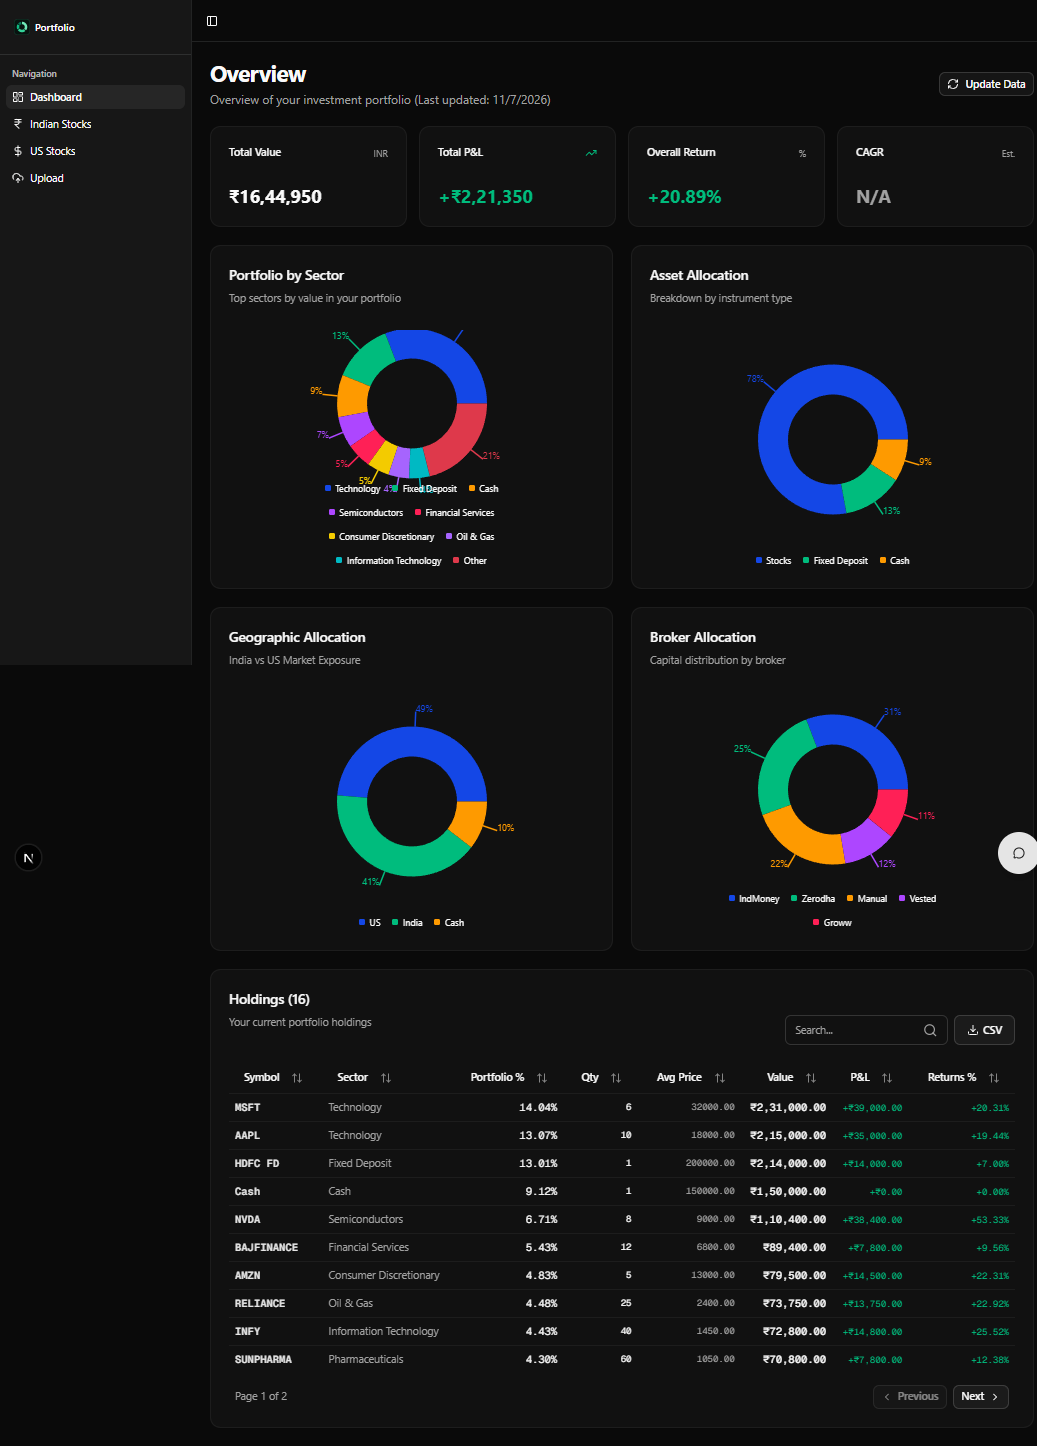
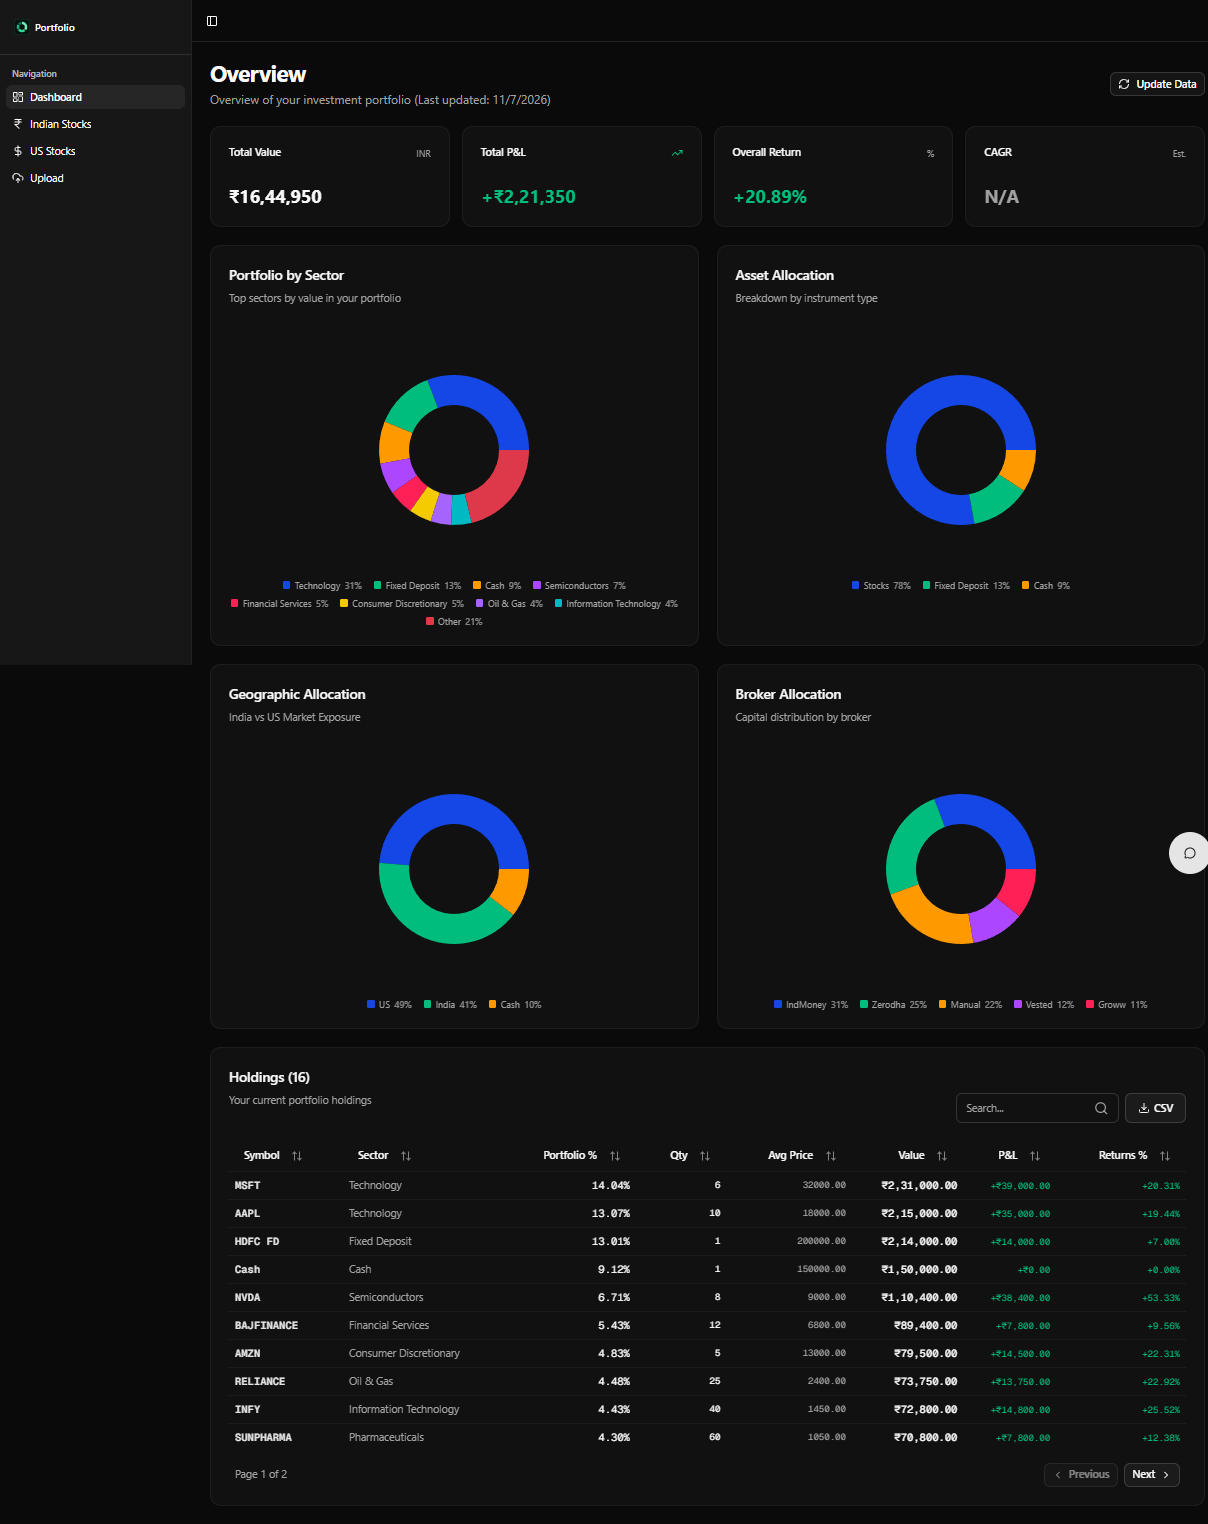
Fix chart label and legend overlap

diff --git a/src/components/dashboard-view.tsx b/src/components/dashboard-view.tsx
@@ -17,8 +17,6 @@ import {
   ChartContainer,
   ChartTooltip,
   ChartTooltipContent,
-  ChartLegend,
-  ChartLegendContent,
   type ChartConfig,
 } from "@/components/ui/chart";
 import {
@@ -112,6 +110,29 @@ function buildChartData(map: Map<string, number>): {
   });
 
   return { data, config };
+}
+
+function ChartLegendItems({ data }: { data: ChartDatum[] }) {
+  const total = data.reduce((sum, item) => sum + item.value, 0);
+
+  return (
+    <div className="mt-3 flex flex-wrap justify-center gap-x-4 gap-y-2 text-xs">
+      {data.map((item) => (
+        <span key={item.name} className="inline-flex items-center gap-1.5">
+          <span
+            className="h-2.5 w-2.5 shrink-0 rounded-[2px]"
+            style={{ backgroundColor: item.fill }}
+          />
+          <span className="text-muted-foreground">{item.name}</span>
+          {total > 0 && (
+            <span className="text-foreground/50">
+              {((item.value / total) * 100).toFixed(0)}%
+            </span>
+          )}
+        </span>
+      ))}
+    </div>
+  );
 }
 
 export function DashboardView({
@@ -470,35 +491,34 @@ export function DashboardView({
           </CardHeader>
           <CardContent>
             {sectorData.length > 0 ? (
-              <ChartContainer
-                config={sectorConfig}
-                className="mx-auto aspect-square h-[320px]"
-              >
-                <PieChart>
-                  <ChartTooltip
-                    content={<ChartTooltipContent nameKey="name" />}
-                  />
-                  <Pie
-                    data={sectorData}
-                    dataKey="value"
-                    nameKey="name"
-                    cx="50%"
-                    cy="50%"
-                    innerRadius={60}
-                    outerRadius={100}
-                    strokeWidth={2}
-                    stroke="hsl(var(--background))"
-                    label={({ percent }) => `${(percent * 100).toFixed(0)}%`}
-                  >
-                    {sectorData.map((entry, index) => (
-                      <Cell key={`cell-${index}`} fill={entry.fill} />
-                    ))}
-                  </Pie>
-                  <ChartLegend
-                    content={<ChartLegendContent nameKey="name" />}
-                  />
-                </PieChart>
-              </ChartContainer>
+              <>
+                <ChartContainer
+                  config={sectorConfig}
+                  className="mx-auto aspect-square h-[320px]"
+                >
+                  <PieChart>
+                    <ChartTooltip
+                      content={<ChartTooltipContent nameKey="name" />}
+                    />
+                    <Pie
+                      data={sectorData}
+                      dataKey="value"
+                      nameKey="name"
+                      cx="50%"
+                      cy="50%"
+                      innerRadius={60}
+                      outerRadius={100}
+                      strokeWidth={2}
+                      stroke="hsl(var(--background))"
+                    >
+                      {sectorData.map((entry, index) => (
+                        <Cell key={`cell-${index}`} fill={entry.fill} />
+                      ))}
+                    </Pie>
+                  </PieChart>
+                </ChartContainer>
+                <ChartLegendItems data={sectorData} />
+              </>
             ) : (
               <div className="flex h-[280px] items-center justify-center text-muted-foreground">
                 No sector data
@@ -515,35 +535,34 @@ export function DashboardView({
           </CardHeader>
           <CardContent>
             {assetData.length > 0 ? (
-              <ChartContainer
-                config={assetConfig}
-                className="mx-auto aspect-square h-[320px]"
-              >
-                <PieChart>
-                  <ChartTooltip
-                    content={<ChartTooltipContent nameKey="name" />}
-                  />
-                  <Pie
-                    data={assetData}
-                    dataKey="value"
-                    nameKey="name"
-                    cx="50%"
-                    cy="50%"
-                    innerRadius={60}
-                    outerRadius={100}
-                    strokeWidth={2}
-                    stroke="hsl(var(--background))"
-                    label={({ percent }) => `${(percent * 100).toFixed(0)}%`}
-                  >
-                    {assetData.map((entry, index) => (
-                      <Cell key={`cell-${index}`} fill={entry.fill} />
-                    ))}
-                  </Pie>
-                  <ChartLegend
-                    content={<ChartLegendContent nameKey="name" />}
-                  />
-                </PieChart>
-              </ChartContainer>
+              <>
+                <ChartContainer
+                  config={assetConfig}
+                  className="mx-auto aspect-square h-[320px]"
+                >
+                  <PieChart>
+                    <ChartTooltip
+                      content={<ChartTooltipContent nameKey="name" />}
+                    />
+                    <Pie
+                      data={assetData}
+                      dataKey="value"
+                      nameKey="name"
+                      cx="50%"
+                      cy="50%"
+                      innerRadius={60}
+                      outerRadius={100}
+                      strokeWidth={2}
+                      stroke="hsl(var(--background))"
+                    >
+                      {assetData.map((entry, index) => (
+                        <Cell key={`cell-${index}`} fill={entry.fill} />
+                      ))}
+                    </Pie>
+                  </PieChart>
+                </ChartContainer>
+                <ChartLegendItems data={assetData} />
+              </>
             ) : (
               <div className="flex h-[280px] items-center justify-center text-muted-foreground">
                 No asset data
@@ -561,35 +580,34 @@ export function DashboardView({
             </CardHeader>
             <CardContent>
               {countryData.length > 0 ? (
-                <ChartContainer
-                  config={countryConfig}
-                  className="mx-auto aspect-square h-[320px]"
-                >
-                  <PieChart>
-                    <ChartTooltip
-                      content={<ChartTooltipContent nameKey="name" />}
-                    />
-                    <Pie
-                      data={countryData}
-                      dataKey="value"
-                      nameKey="name"
-                      cx="50%"
-                      cy="50%"
-                      innerRadius={60}
-                      outerRadius={100}
-                      strokeWidth={2}
-                      stroke="hsl(var(--background))"
-                      label={({ percent }) => `${(percent * 100).toFixed(0)}%`}
-                    >
-                      {countryData.map((entry, index) => (
-                        <Cell key={`cell-${index}`} fill={entry.fill} />
-                      ))}
-                    </Pie>
-                    <ChartLegend
-                      content={<ChartLegendContent nameKey="name" />}
-                    />
-                  </PieChart>
-                </ChartContainer>
+                <>
+                  <ChartContainer
+                    config={countryConfig}
+                    className="mx-auto aspect-square h-[320px]"
+                  >
+                    <PieChart>
+                      <ChartTooltip
+                        content={<ChartTooltipContent nameKey="name" />}
+                      />
+                      <Pie
+                        data={countryData}
+                        dataKey="value"
+                        nameKey="name"
+                        cx="50%"
+                        cy="50%"
+                        innerRadius={60}
+                        outerRadius={100}
+                        strokeWidth={2}
+                        stroke="hsl(var(--background))"
+                      >
+                        {countryData.map((entry, index) => (
+                          <Cell key={`cell-${index}`} fill={entry.fill} />
+                        ))}
+                      </Pie>
+                    </PieChart>
+                  </ChartContainer>
+                  <ChartLegendItems data={countryData} />
+                </>
               ) : (
                 <div className="flex h-[280px] items-center justify-center text-muted-foreground">
                   No data available
@@ -607,35 +625,34 @@ export function DashboardView({
           </CardHeader>
           <CardContent>
             {brokerData.length > 0 ? (
-              <ChartContainer
-                config={brokerConfig}
-                className="mx-auto aspect-square h-[320px]"
-              >
-                <PieChart>
-                  <ChartTooltip
-                    content={<ChartTooltipContent nameKey="name" />}
-                  />
-                  <Pie
-                    data={brokerData}
-                    dataKey="value"
-                    nameKey="name"
-                    cx="50%"
-                    cy="50%"
-                    innerRadius={60}
-                    outerRadius={100}
-                    strokeWidth={2}
-                    stroke="hsl(var(--background))"
-                    label={({ percent }) => `${(percent * 100).toFixed(0)}%`}
-                  >
-                    {brokerData.map((entry, index) => (
-                      <Cell key={`cell-${index}`} fill={entry.fill} />
-                    ))}
-                  </Pie>
-                  <ChartLegend
-                    content={<ChartLegendContent nameKey="name" />}
-                  />
-                </PieChart>
-              </ChartContainer>
+              <>
+                <ChartContainer
+                  config={brokerConfig}
+                  className="mx-auto aspect-square h-[320px]"
+                >
+                  <PieChart>
+                    <ChartTooltip
+                      content={<ChartTooltipContent nameKey="name" />}
+                    />
+                    <Pie
+                      data={brokerData}
+                      dataKey="value"
+                      nameKey="name"
+                      cx="50%"
+                      cy="50%"
+                      innerRadius={60}
+                      outerRadius={100}
+                      strokeWidth={2}
+                      stroke="hsl(var(--background))"
+                    >
+                      {brokerData.map((entry, index) => (
+                        <Cell key={`cell-${index}`} fill={entry.fill} />
+                      ))}
+                    </Pie>
+                  </PieChart>
+                </ChartContainer>
+                <ChartLegendItems data={brokerData} />
+              </>
             ) : (
               <div className="flex h-[280px] items-center justify-center text-muted-foreground">
                 No data available
